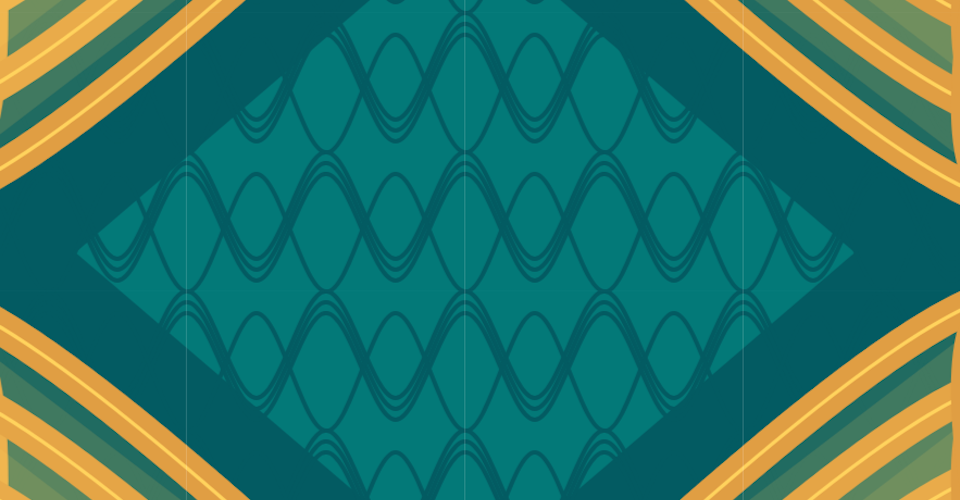
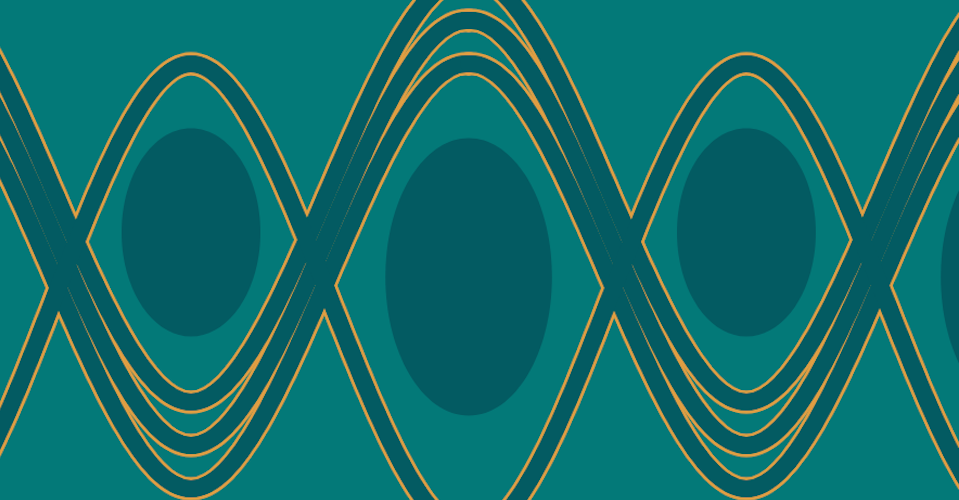
more zoom levels added

diff --git a/drawgrid.js b/drawgrid.js
@@ -168,6 +168,84 @@ function drawGrid(p5, x1, x2, y1, y2, z, zoom) {
 }
 
 //pattern over diamond
+
+if(zoom>4){
+  let Smin_x = snap_to_grid(x1 - max_shift, smallGridSize);
+  let Smax_x = snap_to_grid(x2 + max_shift + smallGridSize, smallGridSize);
+  let Smin_y = snap_to_grid(y1 - max_shift, smallGridSize);
+  let Smax_y = snap_to_grid(y2 + max_shift + smallGridSize, smallGridSize);
+  for(let x=Smin_x; x<Smax_x; x+=smallGridSize) {
+    for(let y=Smin_y; y<Smax_y; y+=smallGridSize) {
+      /* first compute the points to be drawn */
+      let x_pos = p5.map(x, x1, x2, 0, 256);
+      let y_pos = p5.map(y, y1, y2, 0, 256);
+
+      ///*
+      //X VALUES
+      let x383 = p5.map(x + (3*smallGridSize/2), x1, x2, 0, 256);
+      let x255 = p5.map(x + smallGridSize, x1, x2, 0, 256);
+      let x128 = p5.map(x +(smallGridSize/2), x1, x2, 0, 256);
+      let x0 = p5.map(x, x1, x2, 0, 256);
+      let NEGx128 = p5.map(x +(-1*smallGridSize/2), x1, x2, 0, 256);
+
+      //Y values
+
+      let y255 = p5.map(y + smallGridSize, y1, y2, 0, 256);
+      let y235 = p5.map(y + (smallGridSize - (smallGridSize/12.8)), y1, y2, 0, 256);
+      let y215 = p5.map(y + (smallGridSize - (2*smallGridSize/12.8)), y1, y2, 0, 256);
+      let y195 = p5.map(y + (smallGridSize - (3*smallGridSize/12.8)), y1, y2, 0, 256);
+      let y40 = p5.map(y + (2*smallGridSize/12.8), y1, y2, 0, 256);
+      let y20 = p5.map(y + (smallGridSize/12.8), y1, y2, 0, 256);
+      let y0 = p5.map(y, y1, y2, 0, 256);
+      
+
+        if(zoom  == 5){
+          p5.strokeWeight(strokeWidth/7); 
+        }
+        else if (zoom == 6){
+          p5.strokeWeight(strokeWidth/6); 
+        }
+        else if (zoom > 6){
+          p5.strokeWeight(strokeWidth/5); 
+        }
+        p5.stroke (219, 158, 54);
+        p5.noFill();
+
+        p5.beginShape();
+        p5.curveVertex(NEGx128, y215);
+        p5.curveVertex(x0, y0);
+        p5.curveVertex(x128, y195);
+        p5.curveVertex(x255, y0);
+        p5.curveVertex(x383, y215);
+        p5.endShape();
+
+        p5.beginShape();
+        p5.curveVertex(NEGx128, y235);
+        p5.curveVertex(x0, y20);
+        p5.curveVertex(x128, y215);
+        p5.curveVertex(x255, y20);
+        p5.curveVertex(x383, y235);
+        p5.endShape();
+
+        p5.beginShape();
+        p5.curveVertex(NEGx128, y255);
+        p5.curveVertex(x0, y40);
+        p5.curveVertex(x128, y235);
+        p5.curveVertex(x255, y40);
+        p5.curveVertex(x383, y255);
+        p5.endShape();
+
+        p5.beginShape();
+        p5.curveVertex(NEGx128, y0);
+        p5.curveVertex(x0, y255);
+        p5.curveVertex(x128, y40);
+        p5.curveVertex(x255, y255);
+        p5.curveVertex(x383, y40);
+        p5.endShape();
+      }
+    }
+  }
+
 if(zoom > 3){
   let Smin_x = snap_to_grid(x1 - max_shift, smallGridSize);
   let Smax_x = snap_to_grid(x2 + max_shift + smallGridSize, smallGridSize);
@@ -236,6 +314,33 @@ if(zoom > 3){
       p5.curveVertex(x383, y40);
       p5.endShape();
 
+      if(zoom > 4) {
+
+      p5.noStroke();
+      if(zoom == 5){
+        p5.fill(18, 107, 110);
+      }
+      else if(zoom == 6){
+        p5.fill(17, 98, 105);
+      }
+      else if(zoom > 6){
+        p5.fill(backgrnd);
+      }
+
+      let ycOffset = 0.04;
+
+      let xc0 = p5.map(x + smallGridSize, x1, x2, 0, 256);
+      let xc1 = p5.map(x + 0.5 * smallGridSize, x1, x2, 0, 256);
+      let xc2 = p5.map(x + smallGridSize, x1, x2, 0, 256);
+
+      let yc0 = p5.map(y - smallGridSize, y1, y2, 0, 256);
+      let ycm1 = p5.map(y + (0.5 - ycOffset) * smallGridSize, y1, y2, 0, 256);
+      let ycp1 = p5.map(y + (0.5 + ycOffset) * smallGridSize, y1, y2, 0, 256);
+
+      p5.ellipse(xc2, ycp1, 1.2*strokeWidth, 2*strokeWidth);
+      p5.ellipse(xc1, ycm1, strokeWidth, 1.5*strokeWidth);
+      }
+
       
     }
   }
@@ -248,74 +353,6 @@ if(zoom > 3){
   // p5.textSize(12);
   // p5.text('(' + x1 + ", " + y1 + ")", 10, 30);
 }
-
-if(zoom>5){
-  let Smin_x = snap_to_grid(x1 - max_shift, smallGridSize);
-  let Smax_x = snap_to_grid(x2 + max_shift + smallGridSize, smallGridSize);
-  let Smin_y = snap_to_grid(y1 - max_shift, smallGridSize);
-  let Smax_y = snap_to_grid(y2 + max_shift + smallGridSize, smallGridSize);
-  for(let x=Smin_x; x<Smax_x; x+=smallGridSize) {
-    for(let y=Smin_y; y<Smax_y; y+=smallGridSize) {
-      /* first compute the points to be drawn */
-      let x_pos = p5.map(x, x1, x2, 0, 256);
-      let y_pos = p5.map(y, y1, y2, 0, 256);
-
-      ///*
-      //X VALUES
-      let x383 = p5.map(x + (3*smallGridSize/2), x1, x2, 0, 256);
-      let x255 = p5.map(x + smallGridSize, x1, x2, 0, 256);
-      let x128 = p5.map(x +(smallGridSize/2), x1, x2, 0, 256);
-      let x0 = p5.map(x, x1, x2, 0, 256);
-      let NEGx128 = p5.map(x +(-1*smallGridSize/2), x1, x2, 0, 256);
-
-      //Y values
-
-      let y255 = p5.map(y + smallGridSize, y1, y2, 0, 256);
-      let y235 = p5.map(y + (smallGridSize - (smallGridSize/12.8)), y1, y2, 0, 256);
-      let y215 = p5.map(y + (smallGridSize - (2*smallGridSize/12.8)), y1, y2, 0, 256);
-      let y195 = p5.map(y + (smallGridSize - (3*smallGridSize/12.8)), y1, y2, 0, 256);
-      let y40 = p5.map(y + (2*smallGridSize/12.8), y1, y2, 0, 256);
-      let y20 = p5.map(y + (smallGridSize/12.8), y1, y2, 0, 256);
-      let y0 = p5.map(y, y1, y2, 0, 256);
-      
-        p5.strokeWeight(strokeWidth/30);  
-        p5.stroke (lines);
-        p5.noFill();
-
-        p5.beginShape();
-        p5.curveVertex(NEGx128, y215);
-        p5.curveVertex(x0, y0);
-        p5.curveVertex(x128, y195);
-        p5.curveVertex(x255, y0);
-        p5.curveVertex(x383, y215);
-        p5.endShape();
-
-        p5.beginShape();
-        p5.curveVertex(NEGx128, y235);
-        p5.curveVertex(x0, y20);
-        p5.curveVertex(x128, y215);
-        p5.curveVertex(x255, y20);
-        p5.curveVertex(x383, y235);
-        p5.endShape();
-
-        p5.beginShape();
-        p5.curveVertex(NEGx128, y255);
-        p5.curveVertex(x0, y40);
-        p5.curveVertex(x128, y235);
-        p5.curveVertex(x255, y40);
-        p5.curveVertex(x383, y255);
-        p5.endShape();
-
-        p5.beginShape();
-        p5.curveVertex(NEGx128, y0);
-        p5.curveVertex(x0, y255);
-        p5.curveVertex(x128, y40);
-        p5.curveVertex(x255, y255);
-        p5.curveVertex(x383, y40);
-        p5.endShape();
-      }
-    }
-  }
 
 
 //drawing

diff --git a/README.md b/README.md
@@ -1,12 +1,13 @@
 ## PS4 MDDN 342 2018
 
-I got the pattern inside the diamond working - I used an alternative version of my original pattern from previous commits. The zoom levels are now as follows:
+I have added some ellipses inside the latest pattern. The progression is now as follows:
 
-1. original pattern
-2. dark diamond added
-3. diamond is lightened, inner lines of main pattern is added.
-4. diamond is lightened again
-5. second pattern is added
-6. inner line of second pattern is added
+0. original pattern
+1. dark diamond added
+2. diamond is lightened, inner lines of main pattern is added.
+3. diamond is lightened again
+4. second pattern is added
+5. orange outer line of second pattern is added, ellipses are added faintly
+6. orange outer line gets thicker, ellipses get darker
+7. ellipses appear the same colour as the original background
 
-The only issue I have is that because my method of drawing the secondary pattern is just covering the whole page (but drawn the same colour as the background so that it looks like it's only on top of the diamond), so when the orange inner is added, if you aren't focussed on the diamond, or have an edge of the diamond in the canvas, the orange pattern will continue on over the rest of the canvas and be visible. I'm not sure if this really bothers me. I could just get rid of other elements that are drawing so that at this level the only thing drawing is the new pattern, but I don't know if it's so big of an issue that it needs to have a fix, as the other elements on the page get so big at this point, so it gives some interest to the rest of the canvas outside of the diamonds.
